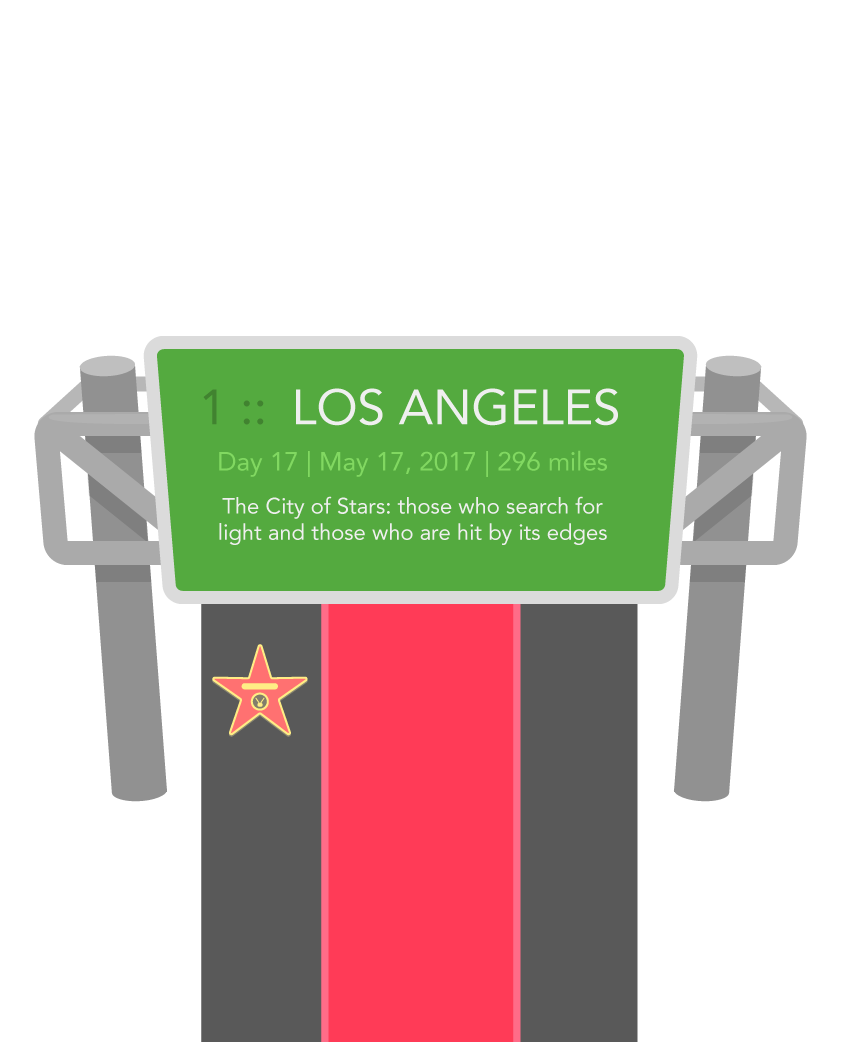
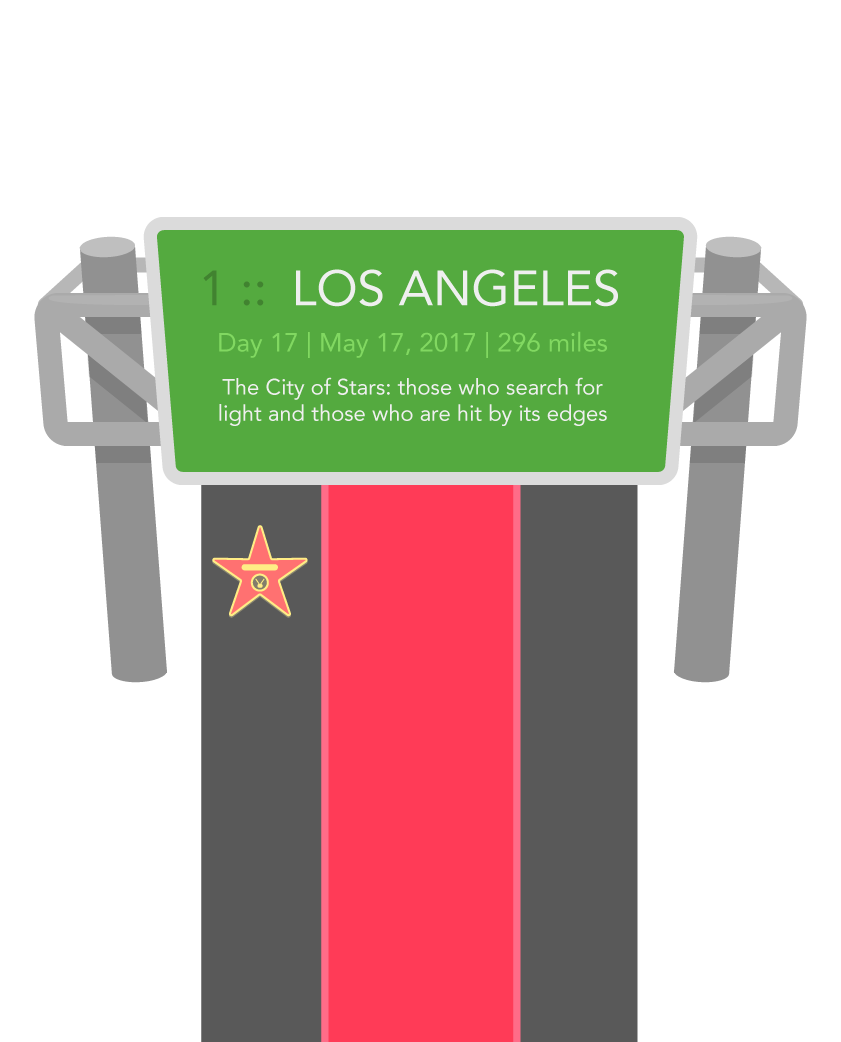
Fun rotating

Changed region(s): [[0.0309, 0.1843, 0.9584, 0.7678], [0.2473, 0.6142, 0.371, 0.7063]]

diff --git a/assets/js/cog.js b/assets/js/cog.js
@@ -1,9 +1,29 @@
-var $cog = $('#cog'),
-    $body = $(document.body),
-    bodyHeight = $body.height();
+$(document).ready(function(){
+   var bodyHeight = $(window).height();
+   window.onscroll = function() {
+     console.log("Leftside");
+      //Determine the amount to rotate by.
+      var deg = -window.scrollY/1.7*(360/bodyHeight);
+      $("#cog").css({
+        "transform": "rotate("+deg+"deg)",
+      });
+      $("#cog-right").css({
+        "transform": "rotate("+-deg+"deg)",
+      });
 
-$(window).scroll(function () {
-    $cog.css({
-        'transform': 'rotate(' + ($body.scrollTop() / bodyHeight * 360) + 'deg)'
-    });
+   };
 });
+
+// $(document).ready(function(){
+//    var bodyHeight = $(window).height();
+//    window.onscroll = function() {
+//      console.log("Rightside");
+//
+//       //Determine the amount to rotate by.
+//       var deg = +window.scrollY/1.7*(360/bodyHeight);
+//       $("#cog-right").css({
+//         "transform": "rotate("+deg+"deg)",
+//       });
+//
+//    };
+// });

diff --git a/index.html b/index.html
@@ -82,9 +82,14 @@
       <button type="button" id='click1'>Play1</button>
       <button type="button" id='click2'>Play2</button> -->
     </div>
-    <div id="cog">
-      <img class="circle" src="assets/images/stick.png" alt="">
+    <div id="cog" class="left">
+      <img class="circle" src="assets/images/leftcog.png" alt="">
     </div>
+
+    <div id="cog-right" class="right">
+      <img class="circle" src="assets/images/rightcog.png" alt="">
+    </div>
+
 
     <div class="foot-player">
       <div class="mask">

diff --git a/assets/css/custom.css b/assets/css/custom.css
@@ -11,18 +11,29 @@
 }
 
 body {
-
+  height: 100%;
 }
 
 #cog{
   position: fixed;
-  top: -150px;
-  left: -200px;
+  top: -290px;
+}
+
+#cog-right{
+  position: fixed;
+  top: -290px;
+}
+
+.left{
+  left: -410px;
+}
+
+.right {
+  right: -390px;
 }
 
 .circle {
-
-  width: 500px;
+  width: 680px;
 }
 
 #navbar{
